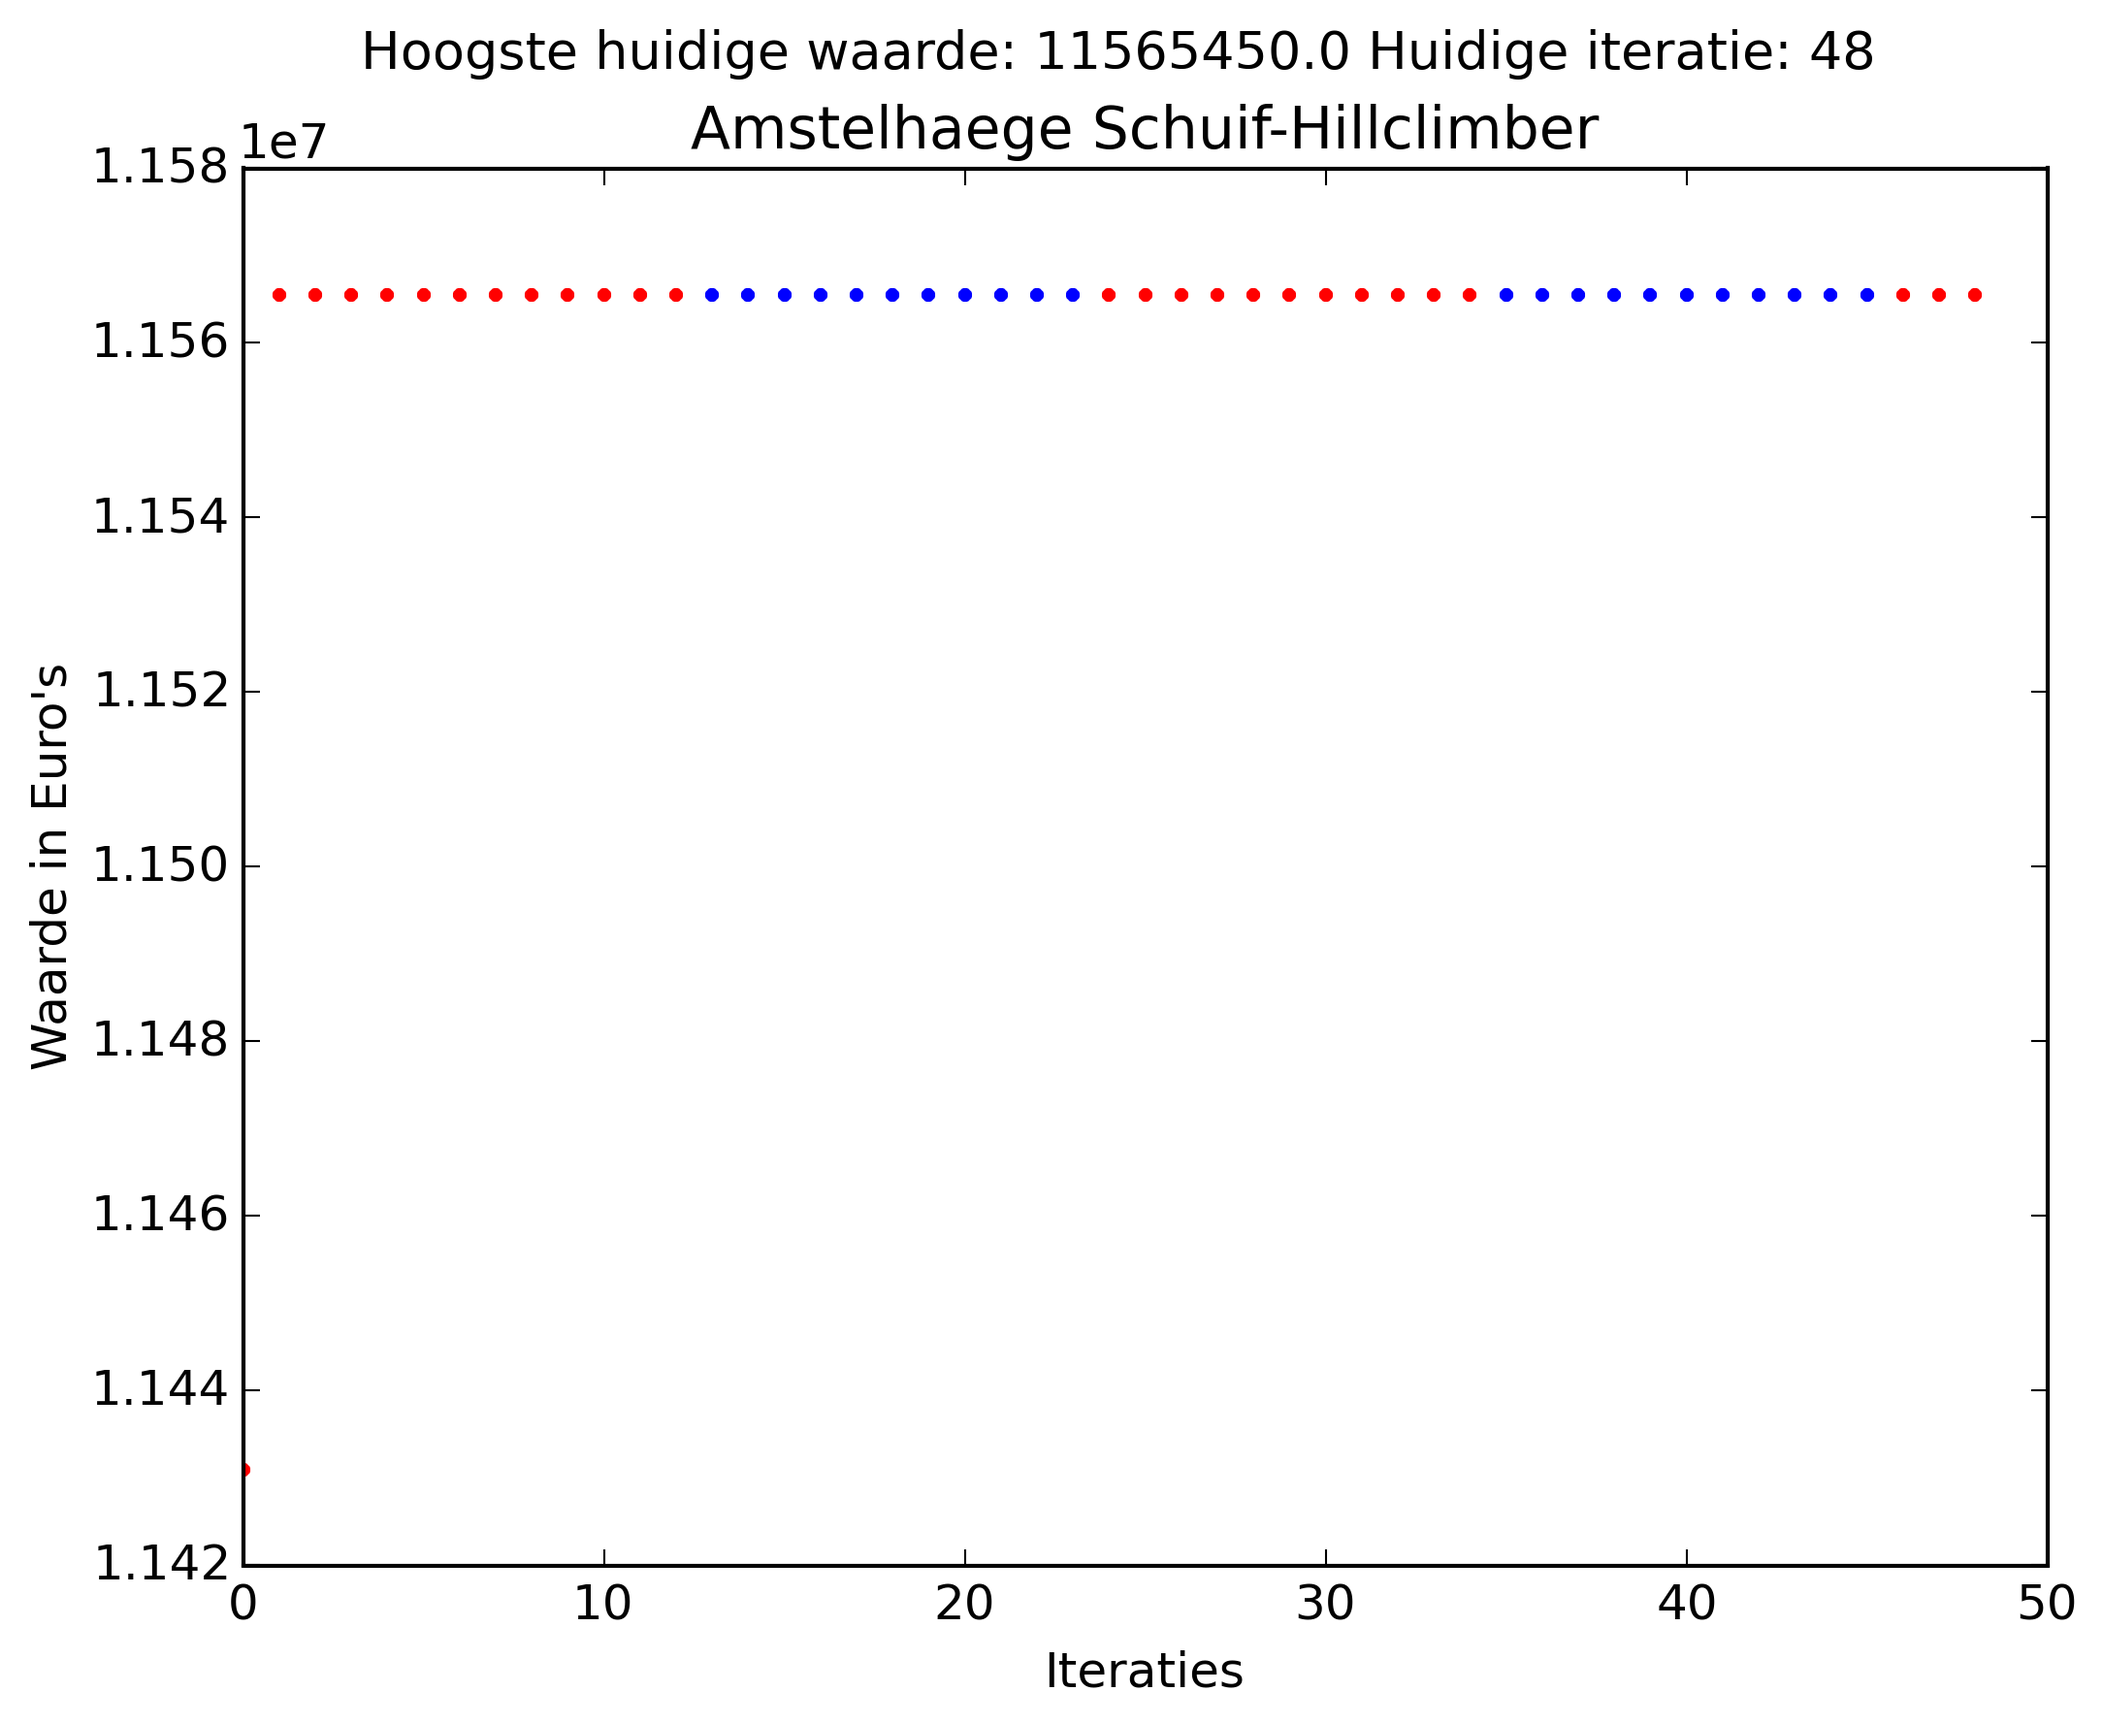
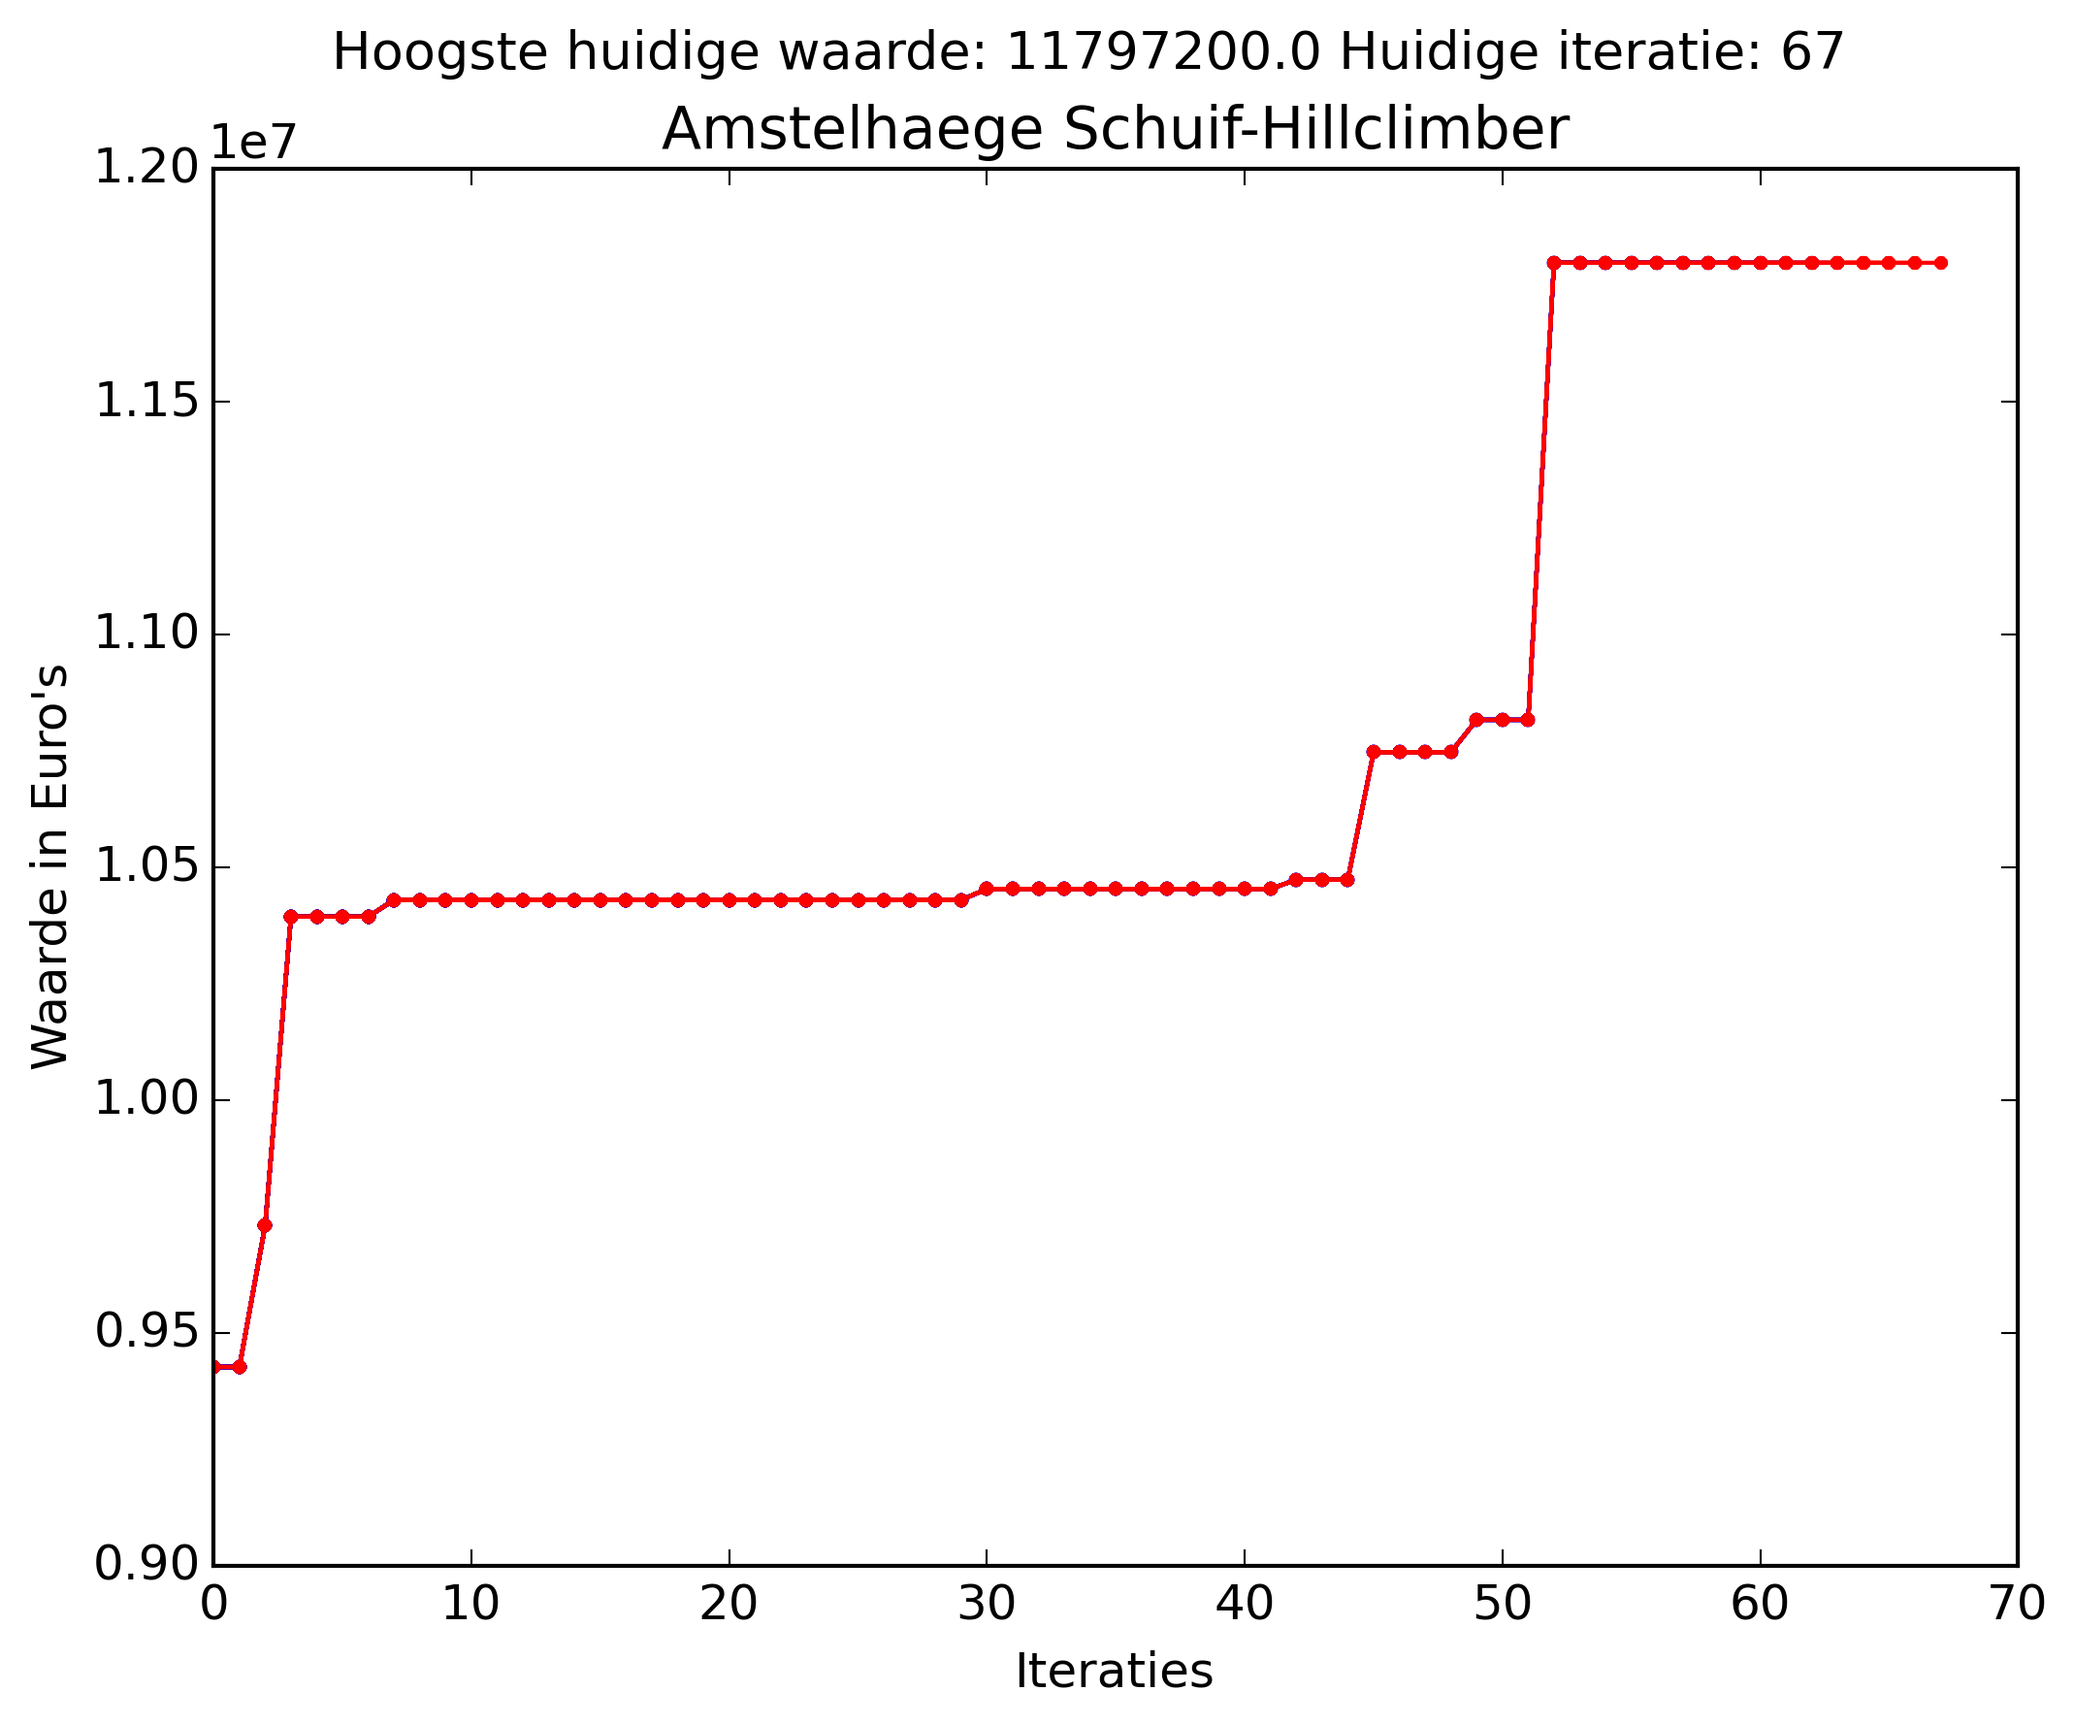
DIKKE LIJN JONGEN!
MOOI MAN :dart: :elephant: :dash:

diff --git a/main.py b/main.py
@@ -22,7 +22,6 @@ def createRandom():
             hoogstewaarde = temp[1]
             best = combinatie
             best.evalueer()
-            uitkomsten.append(hoogstewaarde)
             #plt.plot(iteratie, hoogstewaarde, '.-r')
             plt.draw()
             plt.savefig('graph.png', dpi=300, bbox_inches='tight')
@@ -42,6 +41,7 @@ toegestanescore = ["waarde", "vrijstand"]
 aantalhuizen = int(sys.argv[1])
 aantalwater = 4
 uitkomsten = []
+iteraties = []
 hoogstewaarde = 0
 iteratie = 0
 maxverwerpen = 10
@@ -128,8 +128,9 @@ elif str(sys.argv[2]) == "schuiven":
         else:
             verwerpen +=1
         uitkomsten.append(hoogstewaarde)
+        iteraties.append(iteratie)
         plt.figure(1)
-        plt.plot(iteratie, hoogstewaarde, '.-' + graphcolour)
+        plt.plot(iteraties, uitkomsten, '.-' + graphcolour)
         if best != 0 and best.evaluatie[criterium] > hoogstewaarde:
             plt.suptitle("Hoogste huidige waarde: " + str(best.evaluatie[criterium]) + " Huidige iteratie: " + str(iteratie), fontsize=13)
         else:
